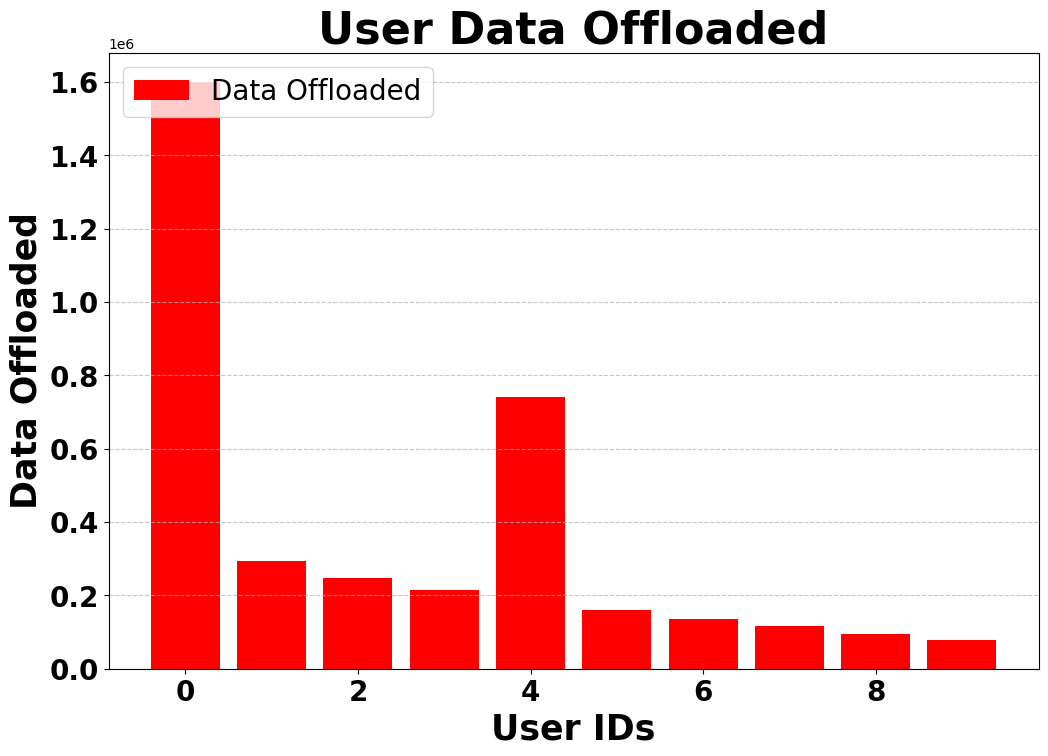
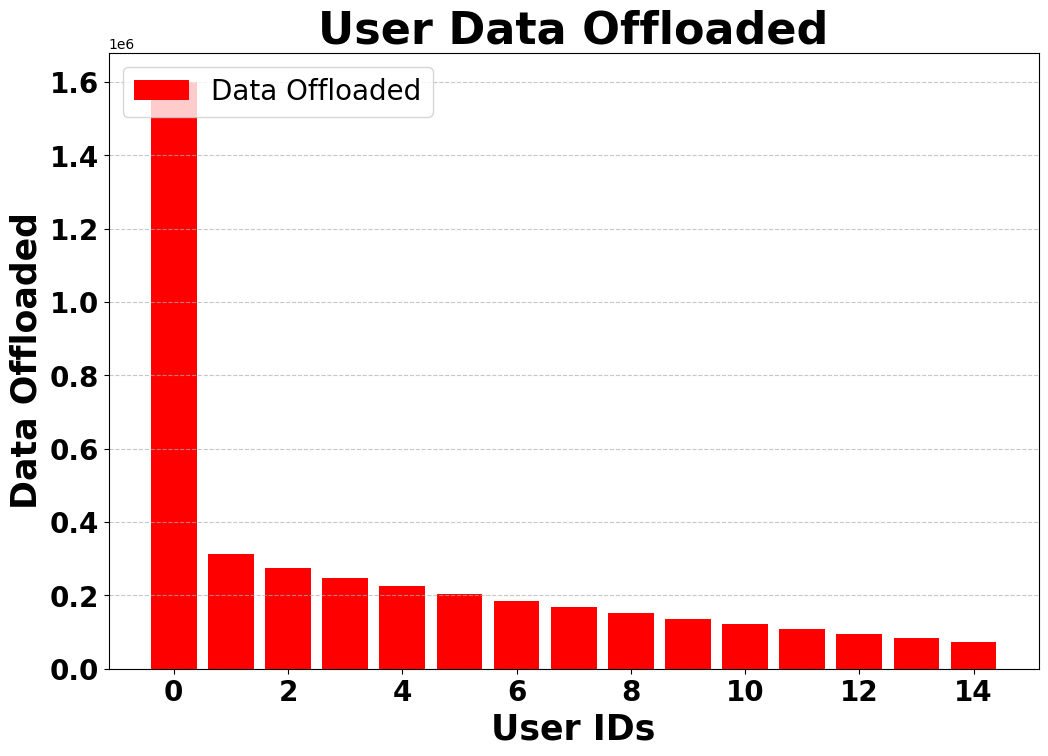
Finalize Pure Game Fine Tuning

diff --git a/submodular_game_main.py b/submodular_game_main.py
@@ -20,7 +20,7 @@ key = random.PRNGKey(20)
 N = 1
 #U = 100
 # Generate random user number for each node
-U = random.randint(key, (N,), 10, 15)
+U = random.randint(key, (N,), 15, 15)
 NODE_RADIUS = 2
 MIN_DISTANCE_BETWEEN_NODES = 100  # Minimum distance to maintain between nodes
 UAV_HEIGHT = 100
@@ -32,7 +32,7 @@ UAV_CPU_FREQUENCY = 2 * (10**9)
 UAV_VELOCITY = 1
 MAX_ITER = 50
 DISTANCE_MIN = 10
-DISTANCE_MAX = 14.5
+DISTANCE_MAX = 13
 MAX_BITS = 2 * 10**6
 MIN_BITS = 3 * 10**5
 ENERGY_LEVEL = 29000
